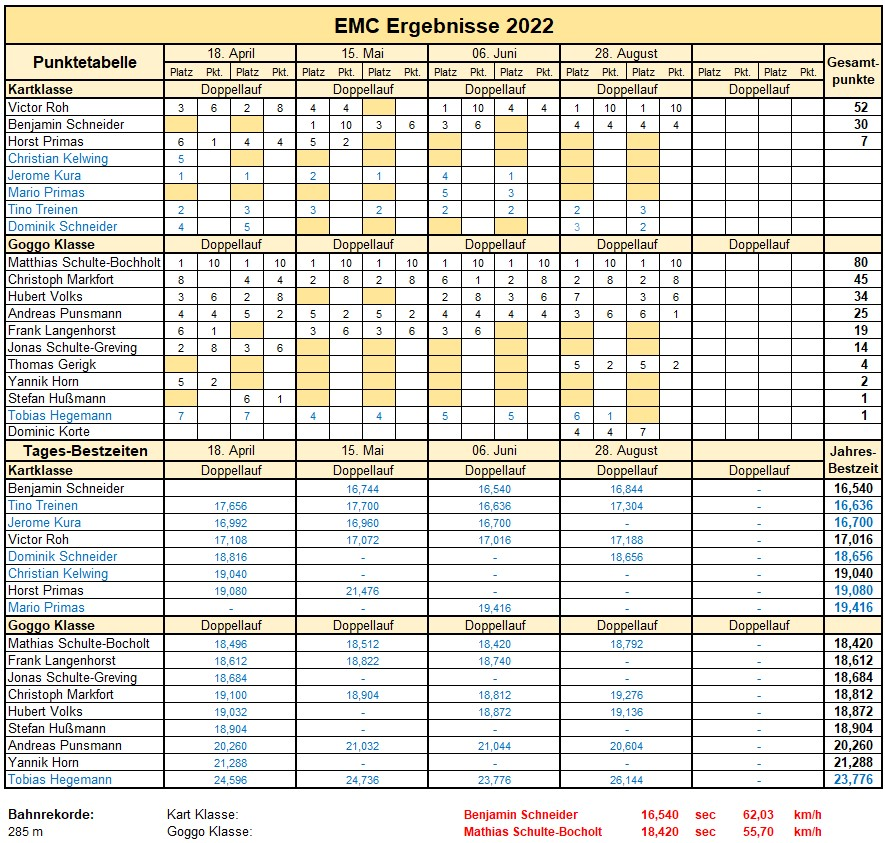
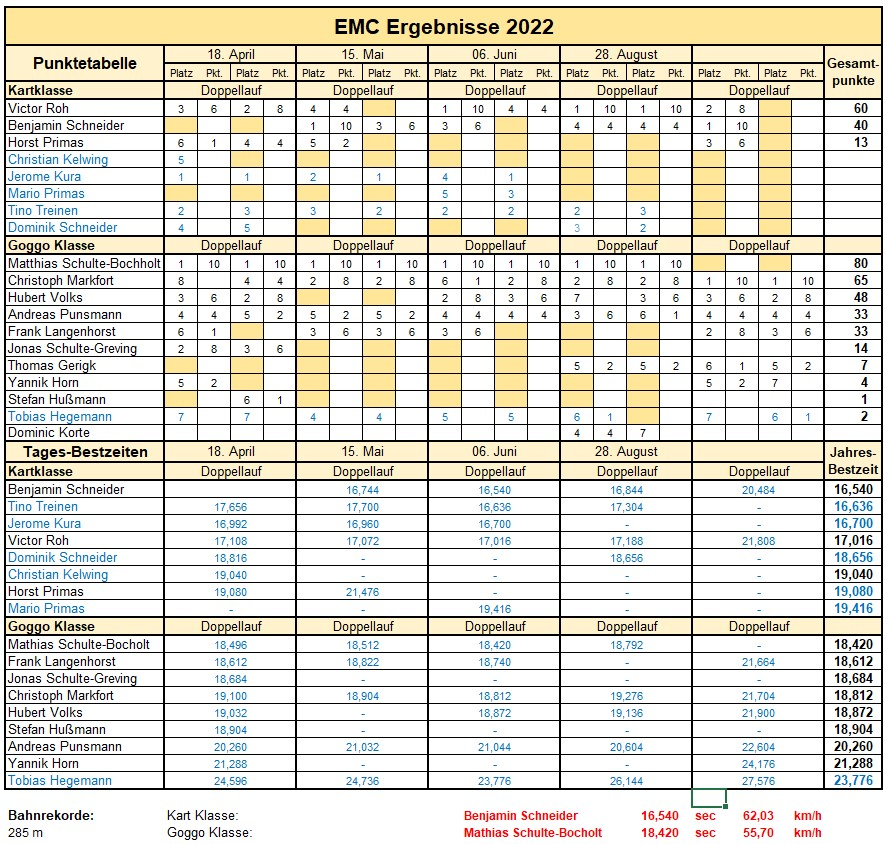
5.Rennen

Changed region(s): [[0.0, 0.0, 1.0, 1.0], [0.0305, 0.9561, 0.0915, 0.987]]

diff --git a/index.html b/index.html
@@ -8,6 +8,32 @@ description: Kartsport mit "Goggo"-Karts und konventionellen Karts
 <!-------------------------------------------------------------------------->
 <h2 align="center">Das Jahr 2022</h2>
 
+<h3 align="center">5. Lauf um den Jahrespokal des EMC am 18. September 2022</h3>
+<p align="justify">
+  Der 5. Renntag wurde begleitet von Dauerregen. Entsprechend schlecht waren die
+  Streckenverhältnisse und die Läufe wurden zur Rutschpartie. In der Goggo-Klasse
+  gingen 7 Fahrer und in der Kartklasse 3 Fahrer an den Start.
+</p>
+<p align="justify">
+  In der Goggo-Klasse siegte Christoph Markfort in beiden Läufen. Die weiteren
+  Plätze für den Tagessieg belegten Hubert Volks,Frank Langenhorst und Andreas
+  Punsmann.
+</p>
+<p align="justify">
+  In der Kartklasse wurde wetterbedingt nur ein Lauf durchgeführt, Benjamin
+  Schneider siegte vor Victor Roh und Horst Primas.
+</p>
+<p align="justify">
+  Eine Siegerehrung auf der Bahn fand nicht statt, die Pokale werden bei der
+  nächsten Versammlung übergeben. Schon vor diesem letzen Renntag standen die
+  Jahressieger fest. Wir gratulieren zum Jahrespokal:
+</p>
+<p align="center">
+  Goggo-Klasse:	Matthias Schulte-Bocholt
+  <br>
+  Kart-Klasse:	Victor Roh
+</p>
+
 <img src="img/rennen/2022.09.01_einladung 50.jpg" alt="Einladung">
 
 <h3 align="center">4. Lauf um den Jahrespokal des EMC am 28. August 2022</h3>
